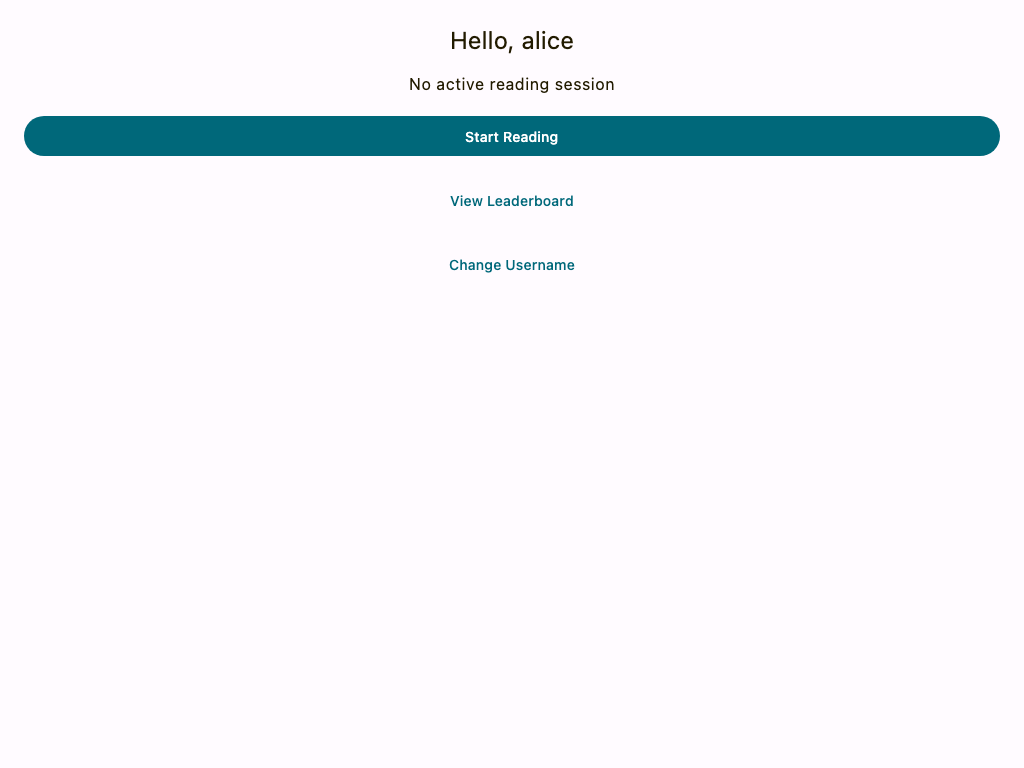
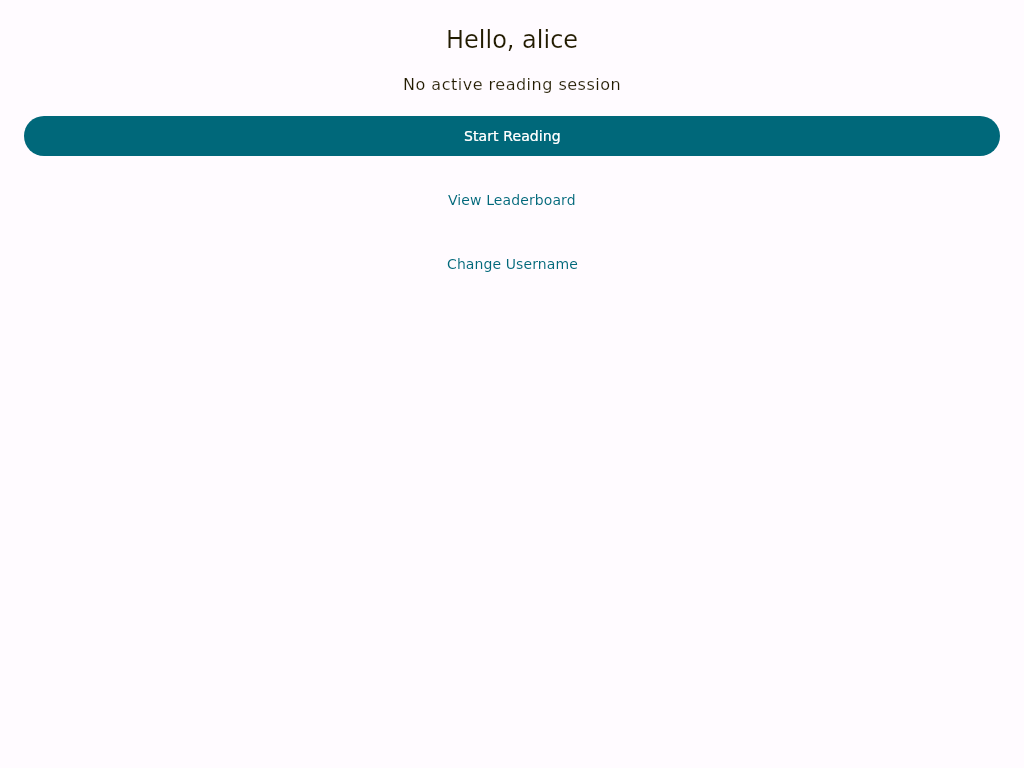
Update screenshot CI to support multi-platform runners

diff --git a/buildSrc/src/main/kotlin/ScreenshotJobsMatrix.kt b/buildSrc/src/main/kotlin/ScreenshotJobsMatrix.kt
@@ -4,15 +4,36 @@ import org.gradle.api.Project
 fun getScreenshotMatrixJson(
     rootProject: Project,
     roborazziTask: String,
+    includeMacOS: Boolean,
 ): String {
-    val matrix =
+    val modules =
         rootProject.subprojects
             .filter { subproject ->
                 subproject.file("build.gradle.kts").let { file ->
                     file.exists() && file.readText().contains("alias(libs.plugins.roborazzi)")
                 }
-            }.map { subproject ->
-                mapOf("gradle_tasks" to "${subproject.path}:$roborazziTask")
-            }.sortedBy { it["gradle_tasks"] }
+            }.sortedBy { it.path }
+    val matrix =
+        modules.flatMap { subproject ->
+            buildList {
+                if (includeMacOS) {
+                    add(
+                        mapOf(
+                            "gradle_tasks" to "${subproject.path}:${roborazziTask}IosSimulatorArm64",
+                            "runner" to "macOS-26",
+                            "module_path" to subproject.path,
+                        ),
+                    )
+                }
+                add(
+                    mapOf(
+                        "gradle_tasks" to
+                            "${subproject.path}:${roborazziTask}Jvm ${subproject.path}:${roborazziTask}AndroidHostTest",
+                        "runner" to "ubuntu-latest",
+                        "module_path" to subproject.path,
+                    ),
+                )
+            }
+        }
     return JsonOutput.prettyPrint(JsonOutput.toJson(matrix))
 }

diff --git a/client/ui/uiSession/src/iosTest/kotlin/com/bookreads/ui/session/SessionScreenIosTest.kt b/client/ui/uiSession/src/iosTest/kotlin/com/bookreads/ui/session/SessionScreenIosTest.kt
@@ -2,7 +2,7 @@ package com.bookreads.ui.session
 
 import androidx.compose.ui.test.ExperimentalTestApi
 import androidx.compose.ui.test.onRoot
-import androidx.compose.ui.test.runComposeUiTest
+import androidx.compose.ui.test.v2.runComposeUiTest
 import com.github.takahirom.roborazzi.ExperimentalRoborazziApi
 import io.github.takahirom.roborazzi.captureRoboImage
 import kotlin.test.Test
@@ -12,18 +12,18 @@ class SessionScreenIosTest {
     @Test
     fun previewIdle() =
         runComposeUiTest {
-            setContent {
-                SessionScreenIdlePreview()
-            }
+            setContent { SessionScreenIdlePreview() }
+            waitForIdle()
+            awaitIdle()
             onRoot().captureRoboImage(this, filePath = "com.bookreads.ui.session.SessionScreenIosTest.previewIdle.png")
         }
 
     @Test
     fun previewReading() =
         runComposeUiTest {
-            setContent {
-                SessionScreenReadingPreview()
-            }
+            setContent { SessionScreenReadingPreview() }
+            waitForIdle()
+            awaitIdle()
             onRoot().captureRoboImage(
                 this,
                 filePath = "com.bookreads.ui.session.SessionScreenIosTest.previewReading.png",

diff --git a/client/ui/uiSession/src/jvmTest/kotlin/com/bookreads/ui/session/SessionScreenJvmTest.kt b/client/ui/uiSession/src/jvmTest/kotlin/com/bookreads/ui/session/SessionScreenJvmTest.kt
@@ -2,7 +2,7 @@ package com.bookreads.ui.session
 
 import androidx.compose.ui.test.ExperimentalTestApi
 import androidx.compose.ui.test.onRoot
-import androidx.compose.ui.test.runDesktopComposeUiTest
+import androidx.compose.ui.test.v2.runComposeUiTest
 import io.github.takahirom.roborazzi.captureRoboImage
 import kotlin.test.Test
 
@@ -10,19 +10,19 @@ import kotlin.test.Test
 class SessionScreenJvmTest {
     @Test
     fun previewIdle() =
-        runDesktopComposeUiTest {
-            setContent {
-                SessionScreenIdlePreview()
-            }
+        runComposeUiTest {
+            setContent { SessionScreenIdlePreview() }
+            waitForIdle()
+            awaitIdle()
             onRoot().captureRoboImage()
         }
 
     @Test
     fun previewReading() =
-        runDesktopComposeUiTest {
-            setContent {
-                SessionScreenReadingPreview()
-            }
+        runComposeUiTest {
+            setContent { SessionScreenReadingPreview() }
+            waitForIdle()
+            awaitIdle()
             onRoot().captureRoboImage()
         }
 }

diff --git a/client/ui/uiLeaderboard/src/iosTest/kotlin/com/bookreads/ui/leaderboard/LeaderboardScreenIosTest.kt b/client/ui/uiLeaderboard/src/iosTest/kotlin/com/bookreads/ui/leaderboard/LeaderboardScreenIosTest.kt
@@ -2,7 +2,7 @@ package com.bookreads.ui.leaderboard
 
 import androidx.compose.ui.test.ExperimentalTestApi
 import androidx.compose.ui.test.onRoot
-import androidx.compose.ui.test.runComposeUiTest
+import androidx.compose.ui.test.v2.runComposeUiTest
 import com.github.takahirom.roborazzi.ExperimentalRoborazziApi
 import io.github.takahirom.roborazzi.captureRoboImage
 import kotlin.test.Test
@@ -12,9 +12,9 @@ class LeaderboardScreenIosTest {
     @Test
     fun preview() =
         runComposeUiTest {
-            setContent {
-                LeaderboardScreenPreview()
-            }
+            setContent { LeaderboardScreenPreview() }
+            waitForIdle()
+            awaitIdle()
             onRoot().captureRoboImage(
                 this,
                 filePath = "com.bookreads.ui.leaderboard.LeaderboardScreenIosTest.preview.png",

diff --git a/client/diApp/src/jvmTest/kotlin/com/bookreads/di/KoinAppJvmTest.kt b/client/diApp/src/jvmTest/kotlin/com/bookreads/di/KoinAppJvmTest.kt
@@ -2,7 +2,7 @@ package com.bookreads.di
 
 import androidx.compose.ui.test.ExperimentalTestApi
 import androidx.compose.ui.test.onRoot
-import androidx.compose.ui.test.runDesktopComposeUiTest
+import androidx.compose.ui.test.v2.runComposeUiTest
 import androidx.datastore.core.okio.OkioStorage
 import com.bookreads.core.pref.StorageProvider
 import io.github.takahirom.roborazzi.captureRoboImage
@@ -34,12 +34,10 @@ class KoinAppJvmTest {
 
     @Test
     fun preview() =
-        runDesktopComposeUiTest {
-            setContent {
-                KoinApp(platformModule = testPlatformModule)
-            }
+        runComposeUiTest {
+            setContent { KoinApp(platformModule = testPlatformModule) }
             waitForIdle()
-            waitForIdle()
+            awaitIdle()
             onRoot().captureRoboImage()
         }
 }

diff --git a/client/diApp/src/iosTest/kotlin/com/bookreads/di/KoinAppIosTest.kt b/client/diApp/src/iosTest/kotlin/com/bookreads/di/KoinAppIosTest.kt
@@ -2,7 +2,7 @@ package com.bookreads.di
 
 import androidx.compose.ui.test.ExperimentalTestApi
 import androidx.compose.ui.test.onRoot
-import androidx.compose.ui.test.runComposeUiTest
+import androidx.compose.ui.test.v2.runComposeUiTest
 import androidx.datastore.core.okio.OkioStorage
 import com.bookreads.core.pref.StorageProvider
 import com.github.takahirom.roborazzi.ExperimentalRoborazziApi
@@ -36,9 +36,9 @@ class KoinAppIosTest {
     @Test
     fun preview() =
         runComposeUiTest {
-            setContent {
-                KoinApp(platformModule = testPlatformModule)
-            }
+            setContent { KoinApp(platformModule = testPlatformModule) }
+            waitForIdle()
+            awaitIdle()
             onRoot().captureRoboImage(this, filePath = "com.bookreads.di.KoinAppIosTest.preview.png")
         }
 }

diff --git a/client/ui/uiHome/src/iosTest/kotlin/com/bookreads/ui/home/HomeScreenIosTest.kt b/client/ui/uiHome/src/iosTest/kotlin/com/bookreads/ui/home/HomeScreenIosTest.kt
@@ -2,7 +2,7 @@ package com.bookreads.ui.home
 
 import androidx.compose.ui.test.ExperimentalTestApi
 import androidx.compose.ui.test.onRoot
-import androidx.compose.ui.test.runComposeUiTest
+import androidx.compose.ui.test.v2.runComposeUiTest
 import com.github.takahirom.roborazzi.ExperimentalRoborazziApi
 import io.github.takahirom.roborazzi.captureRoboImage
 import kotlin.test.Test
@@ -12,9 +12,9 @@ class HomeScreenIosTest {
     @Test
     fun preview() =
         runComposeUiTest {
-            setContent {
-                HomeScreenPreview()
-            }
+            setContent { HomeScreenPreview() }
+            waitForIdle()
+            awaitIdle()
             onRoot().captureRoboImage(this, filePath = "com.bookreads.ui.home.HomeScreenIosTest.preview.png")
         }
 }

diff --git a/client/ui/uiMain/src/iosTest/kotlin/com/bookreads/ui/main/MainScreenIosTest.kt b/client/ui/uiMain/src/iosTest/kotlin/com/bookreads/ui/main/MainScreenIosTest.kt
@@ -2,7 +2,7 @@ package com.bookreads.ui.main
 
 import androidx.compose.ui.test.ExperimentalTestApi
 import androidx.compose.ui.test.onRoot
-import androidx.compose.ui.test.runComposeUiTest
+import androidx.compose.ui.test.v2.runComposeUiTest
 import com.github.takahirom.roborazzi.ExperimentalRoborazziApi
 import io.github.takahirom.roborazzi.captureRoboImage
 import kotlin.test.Test
@@ -12,9 +12,9 @@ class MainScreenIosTest {
     @Test
     fun preview() =
         runComposeUiTest {
-            setContent {
-                MainScreenPreview()
-            }
+            setContent { MainScreenPreview() }
+            waitForIdle()
+            awaitIdle()
             onRoot().captureRoboImage(this, filePath = "com.bookreads.ui.main.MainScreenIosTest.preview.png")
         }
 }

diff --git a/client/ui/uiLeaderboard/src/commonTest/kotlin/com/bookreads/ui/leaderboard/LeaderboardScreenCommonTest.kt b/client/ui/uiLeaderboard/src/commonTest/kotlin/com/bookreads/ui/leaderboard/LeaderboardScreenCommonTest.kt
@@ -5,7 +5,7 @@ import androidx.compose.ui.test.assertIsDisplayed
 import androidx.compose.ui.test.onNodeWithText
 import androidx.compose.ui.test.onRoot
 import androidx.compose.ui.test.printToLog
-import androidx.compose.ui.test.runComposeUiTest
+import androidx.compose.ui.test.v2.runComposeUiTest
 import kotlin.test.Test
 
 @OptIn(ExperimentalTestApi::class)
@@ -13,9 +13,9 @@ class LeaderboardScreenCommonTest {
     @Test
     fun simpleCheck() =
         runComposeUiTest {
-            setContent {
-                LeaderboardScreenPreview()
-            }
+            setContent { LeaderboardScreenPreview() }
+            waitForIdle()
+            awaitIdle()
             onRoot().printToLog("StartTag")
             onNodeWithText("Leaderboard").assertIsDisplayed()
         }

diff --git a/client/ui/uiSession/src/commonTest/kotlin/com/bookreads/ui/session/SessionScreenCommonTest.kt b/client/ui/uiSession/src/commonTest/kotlin/com/bookreads/ui/session/SessionScreenCommonTest.kt
@@ -5,7 +5,7 @@ import androidx.compose.ui.test.assertIsDisplayed
 import androidx.compose.ui.test.onNodeWithText
 import androidx.compose.ui.test.onRoot
 import androidx.compose.ui.test.printToLog
-import androidx.compose.ui.test.runComposeUiTest
+import androidx.compose.ui.test.v2.runComposeUiTest
 import kotlin.test.Test
 
 @OptIn(ExperimentalTestApi::class)
@@ -13,9 +13,9 @@ class SessionScreenCommonTest {
     @Test
     fun simpleCheck() =
         runComposeUiTest {
-            setContent {
-                SessionScreenIdlePreview()
-            }
+            setContent { SessionScreenIdlePreview() }
+            waitForIdle()
+            awaitIdle()
             onRoot().printToLog("StartTag")
             onNodeWithText("Hello, alice").assertIsDisplayed()
         }

diff --git a/client/ui/uiHome/src/commonTest/kotlin/com/bookreads/ui/home/HomeScreenCommonTest.kt b/client/ui/uiHome/src/commonTest/kotlin/com/bookreads/ui/home/HomeScreenCommonTest.kt
@@ -5,7 +5,7 @@ import androidx.compose.ui.test.assertIsDisplayed
 import androidx.compose.ui.test.onNodeWithText
 import androidx.compose.ui.test.onRoot
 import androidx.compose.ui.test.printToLog
-import androidx.compose.ui.test.runComposeUiTest
+import androidx.compose.ui.test.v2.runComposeUiTest
 import kotlin.test.Test
 
 @OptIn(ExperimentalTestApi::class)
@@ -13,9 +13,9 @@ class HomeScreenCommonTest {
     @Test
     fun simpleCheck() =
         runComposeUiTest {
-            setContent {
-                HomeScreenPreview()
-            }
+            setContent { HomeScreenPreview() }
+            waitForIdle()
+            awaitIdle()
             onRoot().printToLog("StartTag")
             onNodeWithText("Book Reading Leaderboard").assertIsDisplayed()
         }

diff --git a/client/core/corePref/src/webTest/kotlin/com/bookreads/core/pref/TestCorePrefModuleFactory.kt b/client/core/corePref/src/webTest/kotlin/com/bookreads/core/pref/TestCorePrefModuleFactory.kt
@@ -1,7 +1,6 @@
 package com.bookreads.core.pref
 
-import androidx.datastore.core.okio.WebStorage
-import androidx.datastore.core.okio.WebStorageType
+import androidx.datastore.core.okio.WebLocalStorage
 import kotlinx.browser.localStorage
 import org.koin.core.module.Module
 import org.koin.dsl.module
@@ -13,7 +12,7 @@ actual fun testPrefModule(): Module =
             object : StorageProvider {
                 override fun <T> getStorage(
                     serializer: androidx.datastore.core.okio.OkioSerializer<T>,
-                ): androidx.datastore.core.Storage<T> = WebStorage(serializer, "test.app.pref", WebStorageType.LOCAL)
+                ): androidx.datastore.core.Storage<T> = WebLocalStorage(serializer, "test.app.pref")
             }
         }
     }
